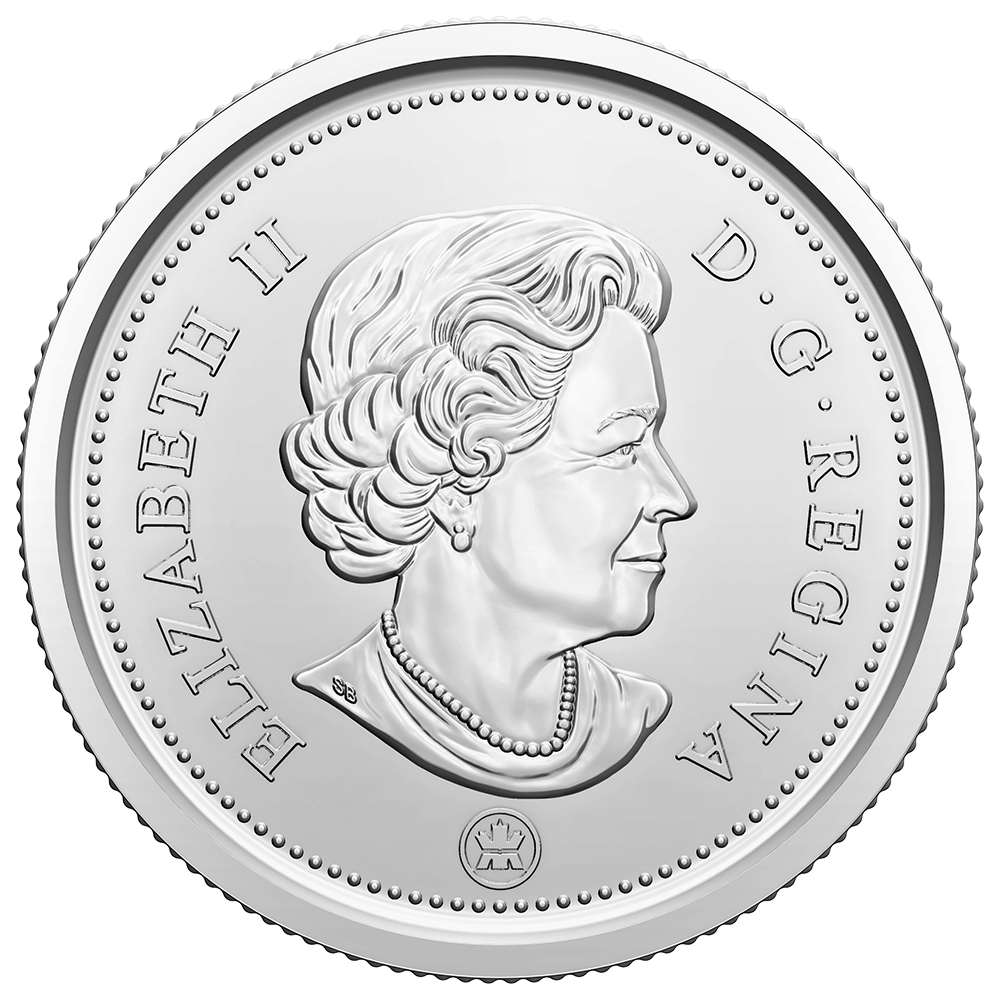
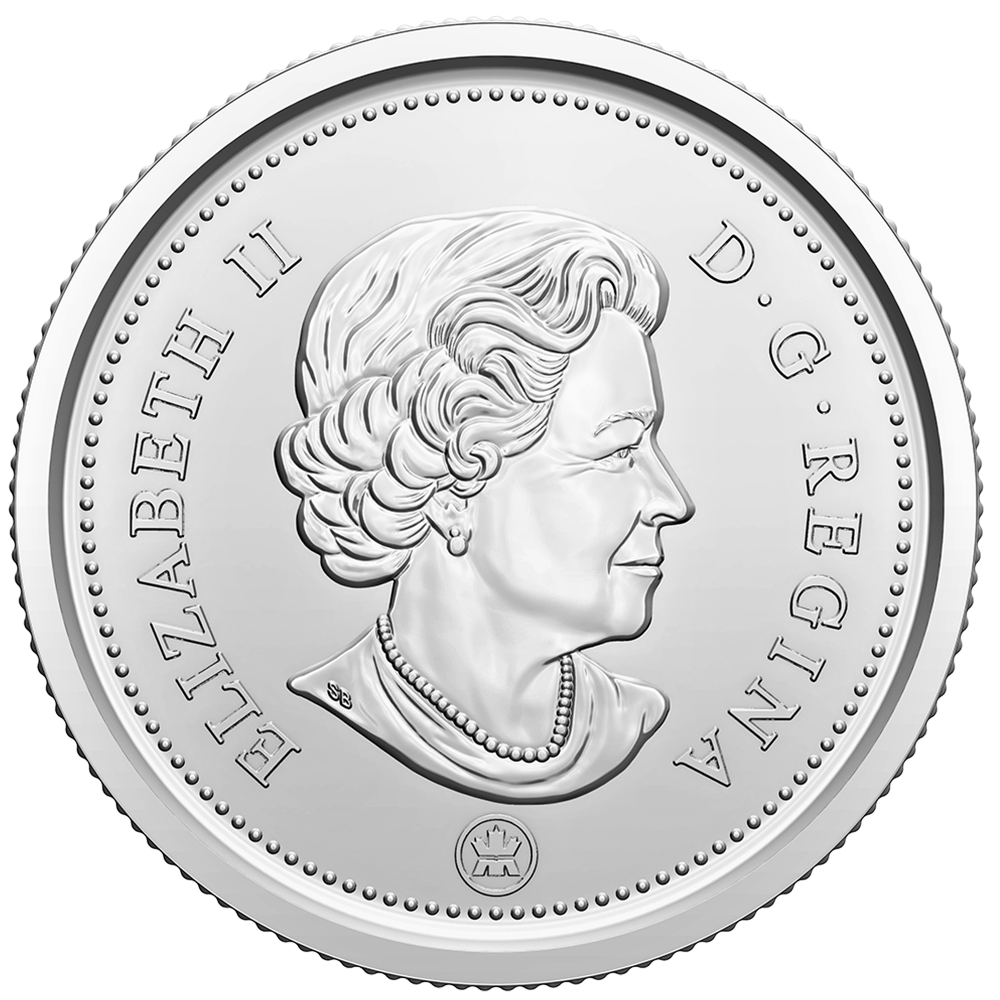
complete overhaul of coin project

diff --git a/scripts/projects/coin.js b/scripts/projects/coin.js
@@ -1,1 +1,23 @@
-document.getElementsByTagName("img")[0].setAttribute("src", `../images/projects/coin/${["heads", "tails"][Math.floor(Math.random() * 2)]}.png`);
+const flipSound = document.getElementsByTagName("audio")[0];
+let tally = [0, 0];
+
+function flip() {
+    let flip = ["heads", "tails"][Math.floor(Math.random() * 2)];
+    tally[["heads", "tails"].indexOf(flip)]++;
+
+    //Changes image and it's properties
+    document.getElementsByTagName("img")[0].setAttribute("src", `../images/projects/coin/${flip}.png`);
+    document.getElementsByTagName("img")[0].setAttribute("alt", `${flip}`);
+    document.getElementsByTagName("img")[0].setAttribute("title", `${flip}`);
+
+    //Changes result text
+    document.getElementById("result").innerText = `You flipped ${flip}! Click the coin to flip it again.`;
+    document.getElementById("heads").innerText = `Heads - ${tally[0]}`;
+    document.getElementById("tails").innerText = `Tails - ${tally[1]}`;
+
+    //Plays sound
+    flipSound.pause();
+    flipSound.currentTime = 0;
+    flipSound.volume = 0.8;
+    flipSound.play();
+}

diff --git a/data/logs.js b/data/logs.js
@@ -277,6 +277,12 @@ export const updates = [
     {
         date: "2023-06-29",
         title: "Various improvements",
-        changes: ["Changed color palette (again)", "Changed how reaction tests calculates time for more accurate results", "Heavily improved code for reaction test", "Changed colors in social list"]
+        changes: ["Changed color palette (again)", "Changed how reaction tests calculates time for more accurate results", "Heavily improved code for reaction test", "Changed how colors are generated in color generator", "Made lots of tiny changes to the code here and there", "Changed colors in social list", "Pressing \"R\" during a game of snake will no longer restart it if you aren't dead"]
+    },
+    {
+        
+        date: "2023-06-30",
+        title: "Coin overhaul",
+        changes: ["Completely remade coin project", "It is no longer only 1 line of code long", "It will now play a sound when the coin is flipped", "Stats for the flips are shown", "Result is also shown by text", "Coin image is slightly smaller"]
     }
 ]

diff --git a/projects/coin.html b/projects/coin.html
@@ -17,9 +17,20 @@
     <br>
     <a href="./">🠔 Back</a>
     <noscript>You must enable JavaScript to view this page.</noscript>
+    
+    <audio>
+        <source src="../sounds/coin_flip.wav">
+    </audio>
 
     <div class="content">
-        <img>
+        <img onclick="flip()" src="../images/projects/coin/tails.png">
+        <p id="result">Click the coin to flip it</p>
+
+        <div class="tally">
+            <p>Tally:</p>
+            <p id="heads">Heads - 0</p>
+            <p id="tails">Tails - 0</p>
+        </div>
     </div>
 </body>
 

diff --git a/data/projects.js b/data/projects.js
@@ -51,7 +51,7 @@ export const projects = [
         name: "Coin",
         adjectives: ["Clever", "Cool", "Cheeky"],
         link: "coin",
-        description: "It's a coin. <br><br>It randomly shows either head or tails."
+        description: "This coin, just like any other coin, randomly shows either head or tails when you flip it. It's a pretty basic \"project\". <br><br> It is excellent for decision making. Some might argue that it's even better than r/RelationshipAdvice!"
     },
     {
         name: "Hangman (not yet implemented)",

diff --git a/scripts/projects/minesweeper.js b/scripts/projects/minesweeper.js
@@ -163,6 +163,11 @@ function generateEmptyGrid(){
         }
         grid.push(row);
     }
+
+    //let grid2 = Array(16).fill(Array(16).fill(""));
+    //console.table(grid);
+    //console.table(grid2);
+
     return grid;
 }
 

diff --git a/styles/projects/coin.css b/styles/projects/coin.css
@@ -1,4 +1,13 @@
 img {
-    width: 40%;
+    height: 24em;
     margin-top: -8%;
+}
+
+#result {
+    font-size: 1.5em;
+}
+
+.tally {
+    margin-top: 2em;
+    line-height: 75%;
 }
